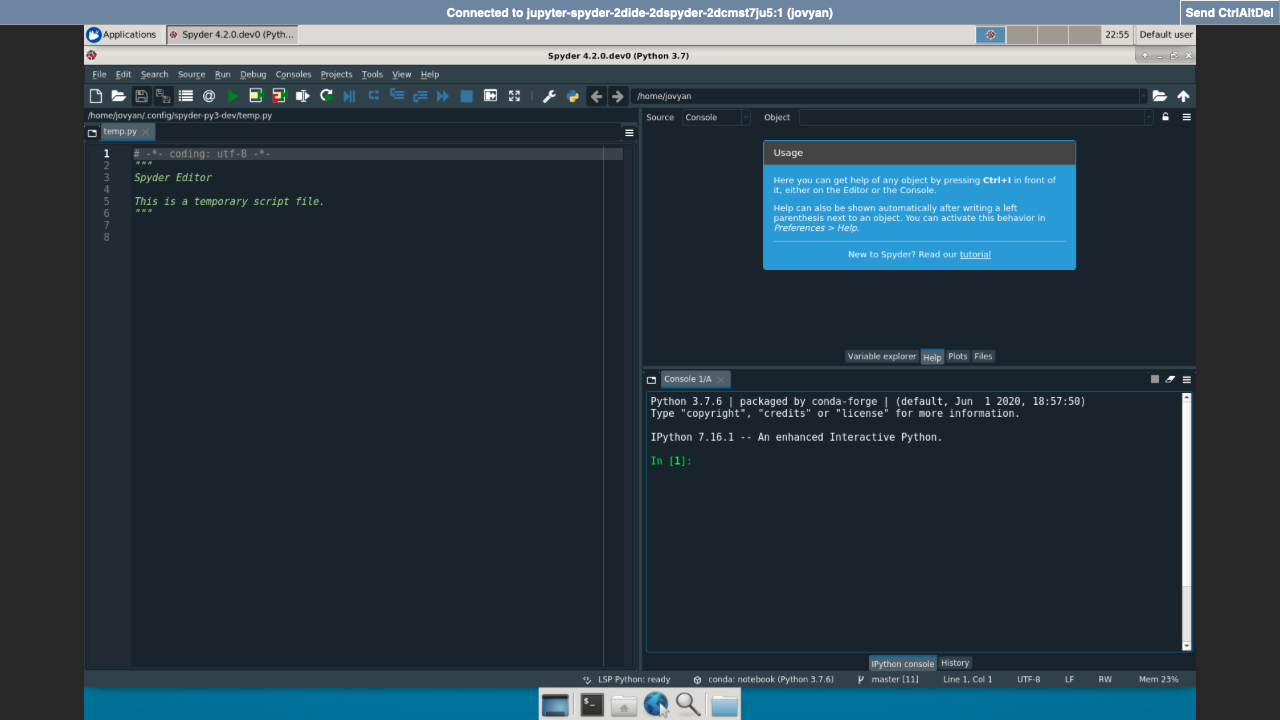
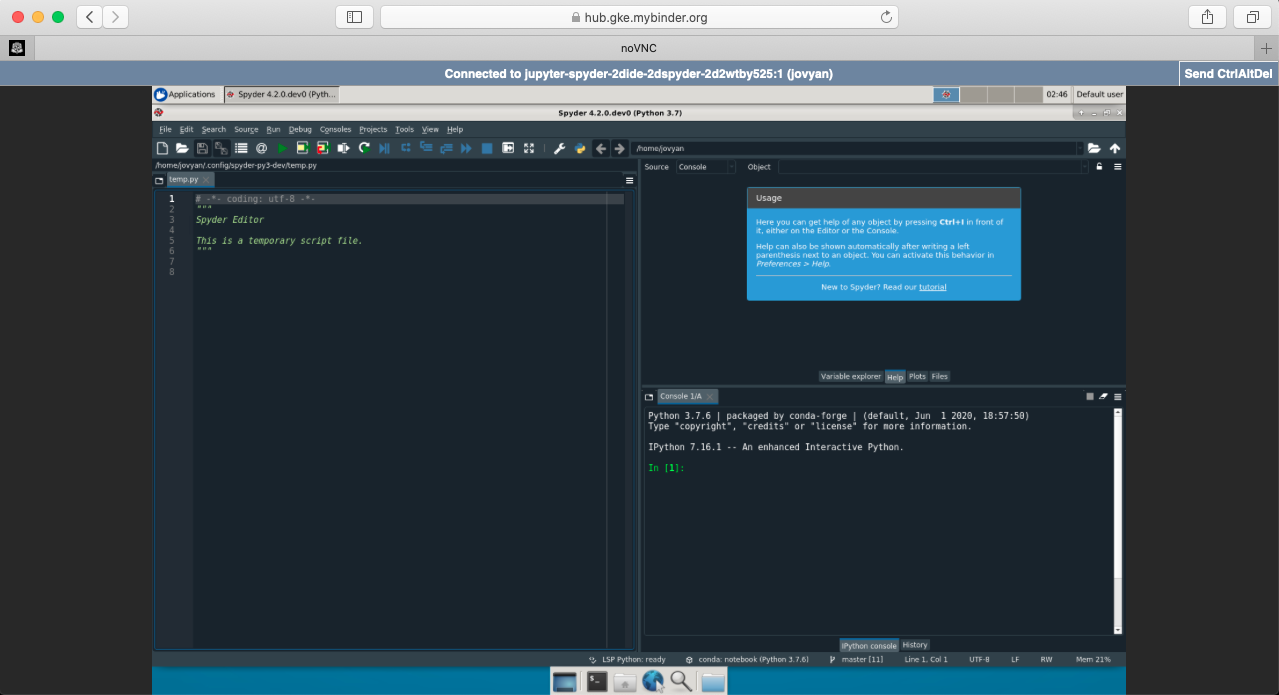
Fix binder screenshot binder in browser and link to point spyder4.x

Changed region(s): [[0.0, 0.0, 1.0, 0.4532], [0.061, 0.4835, 0.9453, 1.0], [0.8843, 0.5137, 0.9453, 0.9065]]

diff --git a/doc/installation.rst b/doc/installation.rst
@@ -23,7 +23,7 @@ With `Binder`_ you can work with a fully functional copy of Spyder online that r
 Just visit the `Spyder page on Binder`_ to get started using Spyder now.
 
 .. _Binder: https://mybinder.org/
-.. _Spyder page on Binder: https://mybinder.org/v2/gh/spyder-ide/spyder/master?urlpath=/desktop
+.. _Spyder page on Binder: https://mybinder.org/v2/gh/spyder-ide/spyder/4.x?urlpath=/desktop
 
 .. image:: images/installation/installation-spyder-binder.png
    :alt: Spyder running on Binder
